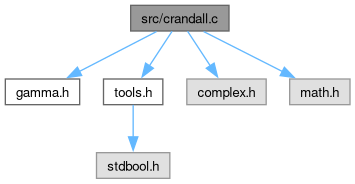
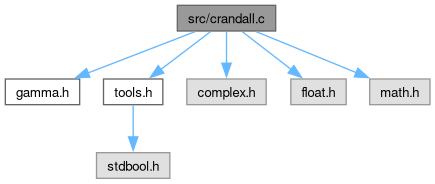
misc: regenerate html

Changed region(s): [[0.0, 0.0, 0.9915, 0.9783], [0.3099, 0.2717, 0.3408, 0.2989], [0.2789, 0.2989, 0.3099, 0.3261]]

diff --git a/C/html/crandall_8h_source.html b/C/html/crandall_8h_source.html
@@ -39,7 +39,7 @@ window.MathJax = {
  <tbody>
  <tr id="projectrow">
   <td id="projectalign">
-   <div id="projectname">Epstein Zeta Library<span id="projectnumber">&#160;0.4.1</span>
+   <div id="projectname">Epstein Zeta Library<span id="projectnumber">&#160;0.5.0a</span>
    </div>
    <div id="projectbrief">Calculates the Epstein Zeta function</div>
   </td>
@@ -122,10 +122,10 @@ $(function() { codefold.init(0); });
 <div class="line"><a id="l00069" name="l00069"></a><span class="lineno">   69</span><span class="keywordtype">double</span> complex <a class="code hl_function" href="crandall_8h.html#a36e2886859961d74dcd67893106d9335">crandall_g</a>(<span class="keywordtype">unsigned</span> <span class="keywordtype">int</span> dim, <span class="keywordtype">double</span> nu, <span class="keyword">const</span> <span class="keywordtype">double</span> *z,</div>
 <div class="line"><a id="l00070" name="l00070"></a><span class="lineno">   70</span>                          <span class="keywordtype">double</span> prefactor, <span class="keywordtype">double</span> zArgBound);</div>
 <div class="line"><a id="l00071" name="l00071"></a><span class="lineno">   71</span><span class="preprocessor">#endif</span></div>
-<div class="ttc" id="acrandall_8h_html_a36e2886859961d74dcd67893106d9335"><div class="ttname"><a href="crandall_8h.html#a36e2886859961d74dcd67893106d9335">crandall_g</a></div><div class="ttdeci">double complex crandall_g(unsigned int dim, double nu, const double *z, double prefactor, double zArgBound)</div><div class="ttdoc">Assumes x and y to be in the respective elementary lattice cell. Multiply with exp(2 * PI * i * x * y...</div><div class="ttdef"><b>Definition</b> crandall.c:127</div></div>
-<div class="ttc" id="acrandall_8h_html_a4f002c9beeec45b933c400a0cf699257"><div class="ttname"><a href="crandall_8h.html#a4f002c9beeec45b933c400a0cf699257">assignzArgBound</a></div><div class="ttdeci">double assignzArgBound(double nu)</div><div class="ttdoc">calculates bounds on when to use asymptotic expansion of the upper incomplete gamma function,...</div><div class="ttdef"><b>Definition</b> crandall.c:97</div></div>
+<div class="ttc" id="acrandall_8h_html_a36e2886859961d74dcd67893106d9335"><div class="ttname"><a href="crandall_8h.html#a36e2886859961d74dcd67893106d9335">crandall_g</a></div><div class="ttdeci">double complex crandall_g(unsigned int dim, double nu, const double *z, double prefactor, double zArgBound)</div><div class="ttdoc">Assumes x and y to be in the respective elementary lattice cell. Multiply with exp(2 * PI * i * x * y...</div><div class="ttdef"><b>Definition</b> crandall.c:134</div></div>
+<div class="ttc" id="acrandall_8h_html_a4f002c9beeec45b933c400a0cf699257"><div class="ttname"><a href="crandall_8h.html#a4f002c9beeec45b933c400a0cf699257">assignzArgBound</a></div><div class="ttdeci">double assignzArgBound(double nu)</div><div class="ttdoc">calculates bounds on when to use asymptotic expansion of the upper incomplete gamma function,...</div><div class="ttdef"><b>Definition</b> crandall.c:104</div></div>
 <div class="ttc" id="acrandall_8h_html_aad749ef8f396e44de09256228fd10a32"><div class="ttname"><a href="crandall_8h.html#aad749ef8f396e44de09256228fd10a32">crandall_gReg_nuequalsdim</a></div><div class="ttdeci">double complex crandall_gReg_nuequalsdim(double s, double arg, double k, double lambda)</div><div class="ttdoc">Calculates the regularization of the zero summand in the second sum in Crandall's formula in the spec...</div></div>
-<div class="ttc" id="acrandall_8h_html_adec3c594701f4a37297ed99a5a016202"><div class="ttname"><a href="crandall_8h.html#adec3c594701f4a37297ed99a5a016202">crandall_gReg</a></div><div class="ttdeci">double complex crandall_gReg(unsigned int dim, double nu, const double *z, double prefactor)</div><div class="ttdoc">Calculates the regularization of the zero summand in the second sum in Crandall's formula.</div><div class="ttdef"><b>Definition</b> crandall.c:79</div></div>
+<div class="ttc" id="acrandall_8h_html_adec3c594701f4a37297ed99a5a016202"><div class="ttname"><a href="crandall_8h.html#adec3c594701f4a37297ed99a5a016202">crandall_gReg</a></div><div class="ttdeci">double complex crandall_gReg(unsigned int dim, double nu, const double *z, double prefactor)</div><div class="ttdoc">Calculates the regularization of the zero summand in the second sum in Crandall's formula.</div><div class="ttdef"><b>Definition</b> crandall.c:86</div></div>
 </div><!-- fragment --></div><!-- contents -->
 <!-- start footer part -->
 <hr class="footer"/><address class="footer"><small>

diff --git a/C/html/search/all_4.js b/C/html/search/all_4.js
@@ -11,14 +11,15 @@ var searchData=
   ['egf_5fua_5fr_8',['egf_ua_r',['../gamma_8c.html#a47c752ef0ca1abca0c9bcd2522a95171',1,'gamma.c']]],
   ['egf_5fugamma_9',['egf_ugamma',['../gamma_8c.html#ac519d4e144fc3904c8ef9b8291415f5c',1,'egf_ugamma(double a, double x):&#160;gamma.c'],['../gamma_8h.html#ac519d4e144fc3904c8ef9b8291415f5c',1,'egf_ugamma(double a, double x):&#160;gamma.c']]],
   ['eps_10',['EPS',['../crandall_8c.html#a6ebf6899d6c1c8b7b9d09be872c05aae',1,'EPS:&#160;crandall.c'],['../tools_8c.html#a6ebf6899d6c1c8b7b9d09be872c05aae',1,'EPS:&#160;tools.c'],['../zeta_8c.html#a6ebf6899d6c1c8b7b9d09be872c05aae',1,'EPS:&#160;zeta.c']]],
-  ['epstein_5fzeta_11',['epstein_zeta',['../namespace__epsteinlib.html#ad18bdfa80dfc37705faf54fedabca85e',1,'_epsteinlib']]],
-  ['epstein_5fzeta_5fc_5fcall_12',['epstein_zeta_c_call',['../namespace__epsteinlib.html#a5917c7018eab0058f9c59b6d3396b8a0',1,'_epsteinlib']]],
-  ['epstein_5fzeta_5freg_13',['epstein_zeta_reg',['../namespace__epsteinlib.html#aef30f576d6940e8621abd59578203232',1,'_epsteinlib']]],
-  ['epstein_5fzeta_5freg_5fc_5fcall_14',['epstein_zeta_reg_c_call',['../namespace__epsteinlib.html#a8498bd42fa7bb3e2f6a310ae3730cee5',1,'_epsteinlib']]],
-  ['epsteinzeta_15',['epsteinZeta',['../epsteinZeta_8c.html#aff1fe7852bf36a72e0da86f19912e870',1,'epsteinZeta.c']]],
-  ['epsteinzeta_2ec_16',['epsteinZeta.c',['../epsteinZeta_8c.html',1,'']]],
-  ['epsteinzetainternal_17',['epsteinZetaInternal',['../zeta_8c.html#aaaea750a87f3948e4c3cd05fa8845482',1,'epsteinZetaInternal(double nu, unsigned int dim, const double *m, const double *x, const double *y, double lambda, int reg):&#160;zeta.c'],['../zeta_8h.html#af1801340afc5abb262bc7e389b1a6c88',1,'epsteinZetaInternal(double nu, unsigned int dim, const double *m, const double *x, const double *y, double lambda, int regBool):&#160;zeta.c']]],
-  ['epsteinzetareg_18',['epsteinZetaReg',['../epsteinZeta_8c.html#aefe3a4ced16ddbd4a7b1727df9e999b2',1,'epsteinZeta.c']]],
-  ['equals_19',['equals',['../tools_8c.html#a90f043e9d6274d24cdc93ea39e4729d4',1,'equals(unsigned int dim, const double *v1, const double *v2):&#160;tools.c'],['../tools_8h.html#a90f043e9d6274d24cdc93ea39e4729d4',1,'equals(unsigned int dim, const double *v1, const double *v2):&#160;tools.c']]],
-  ['equalszero_20',['equalsZero',['../tools_8c.html#a36ca73e4d16386b0f7ab52e9cc8cc657',1,'equalsZero(unsigned int dim, const double *v):&#160;tools.c'],['../tools_8h.html#a36ca73e4d16386b0f7ab52e9cc8cc657',1,'equalsZero(unsigned int dim, const double *v):&#160;tools.c']]]
+  ['eps_5fzero_11',['EPS_ZERO',['../crandall_8c.html#a76d5a0a7b8952eb745b9d0e0db5a373b',1,'crandall.c']]],
+  ['epstein_5fzeta_12',['epstein_zeta',['../namespace__epsteinlib.html#ad18bdfa80dfc37705faf54fedabca85e',1,'_epsteinlib']]],
+  ['epstein_5fzeta_5fc_5fcall_13',['epstein_zeta_c_call',['../namespace__epsteinlib.html#a5917c7018eab0058f9c59b6d3396b8a0',1,'_epsteinlib']]],
+  ['epstein_5fzeta_5freg_14',['epstein_zeta_reg',['../namespace__epsteinlib.html#aef30f576d6940e8621abd59578203232',1,'_epsteinlib']]],
+  ['epstein_5fzeta_5freg_5fc_5fcall_15',['epstein_zeta_reg_c_call',['../namespace__epsteinlib.html#a8498bd42fa7bb3e2f6a310ae3730cee5',1,'_epsteinlib']]],
+  ['epsteinzeta_16',['epsteinZeta',['../epsteinZeta_8c.html#aff1fe7852bf36a72e0da86f19912e870',1,'epsteinZeta.c']]],
+  ['epsteinzeta_2ec_17',['epsteinZeta.c',['../epsteinZeta_8c.html',1,'']]],
+  ['epsteinzetainternal_18',['epsteinZetaInternal',['../zeta_8c.html#aaaea750a87f3948e4c3cd05fa8845482',1,'epsteinZetaInternal(double nu, unsigned int dim, const double *m, const double *x, const double *y, double lambda, int reg):&#160;zeta.c'],['../zeta_8h.html#af1801340afc5abb262bc7e389b1a6c88',1,'epsteinZetaInternal(double nu, unsigned int dim, const double *m, const double *x, const double *y, double lambda, int regBool):&#160;zeta.c']]],
+  ['epsteinzetareg_19',['epsteinZetaReg',['../epsteinZeta_8c.html#aefe3a4ced16ddbd4a7b1727df9e999b2',1,'epsteinZeta.c']]],
+  ['equals_20',['equals',['../tools_8c.html#a90f043e9d6274d24cdc93ea39e4729d4',1,'equals(unsigned int dim, const double *v1, const double *v2):&#160;tools.c'],['../tools_8h.html#a90f043e9d6274d24cdc93ea39e4729d4',1,'equals(unsigned int dim, const double *v1, const double *v2):&#160;tools.c']]],
+  ['equalszero_21',['equalsZero',['../tools_8c.html#a36ca73e4d16386b0f7ab52e9cc8cc657',1,'equalsZero(unsigned int dim, const double *v):&#160;tools.c'],['../tools_8h.html#a36ca73e4d16386b0f7ab52e9cc8cc657',1,'equalsZero(unsigned int dim, const double *v):&#160;tools.c']]]
 ];

diff --git a/C/html/crandall_8c.html b/C/html/crandall_8c.html
@@ -39,7 +39,7 @@ window.MathJax = {
  <tbody>
  <tr id="projectrow">
   <td id="projectalign">
-   <div id="projectname">Epstein Zeta Library<span id="projectnumber">&#160;0.4.1</span>
+   <div id="projectname">Epstein Zeta Library<span id="projectnumber">&#160;0.5.0a</span>
    </div>
    <div id="projectbrief">Calculates the Epstein Zeta function</div>
   </td>
@@ -104,21 +104,24 @@ $(function() {
 <div class="textblock"><code>#include &quot;<a class="el" href="gamma_8h_source.html">gamma.h</a>&quot;</code><br />
 <code>#include &quot;<a class="el" href="tools_8h_source.html">tools.h</a>&quot;</code><br />
 <code>#include &lt;complex.h&gt;</code><br />
+<code>#include &lt;float.h&gt;</code><br />
 <code>#include &lt;math.h&gt;</code><br />
 </div><div class="textblock"><div class="dynheader">
 Include dependency graph for crandall.c:</div>
 <div class="dyncontent">
 <div class="center"><img src="crandall_8c__incl.png" border="0" usemap="#asrc_2crandall_8c" alt=""/></div>
 <map name="asrc_2crandall_8c" id="asrc_2crandall_8c">
-<area shape="rect" title="Calculates the summand function G and related functions in Crandall&#39;s formula." alt="" coords="131,5,229,31"/>
+<area shape="rect" title="Calculates the summand function G and related functions in Crandall&#39;s formula." alt="" coords="177,5,276,31"/>
 <area shape="rect" href="gamma_8h.html" title="Gamma functions." alt="" coords="5,79,80,105"/>
-<area shape="poly" title=" " alt="" coords="158,34,81,74,78,69,155,29"/>
+<area shape="poly" title=" " alt="" coords="196,34,89,75,87,71,194,29"/>
 <area shape="rect" href="tools_8h.html" title="Minimal linear algebra for matrix vector operations." alt="" coords="104,79,163,105"/>
-<area shape="poly" title=" " alt="" coords="174,33,152,67,147,64,170,30"/>
+<area shape="poly" title=" " alt="" coords="212,34,162,72,159,67,209,29"/>
 <area shape="rect" title=" " alt="" coords="187,79,266,105"/>
-<area shape="poly" title=" " alt="" coords="190,30,213,64,208,67,185,33"/>
-<area shape="rect" title=" " alt="" coords="290,79,350,105"/>
-<area shape="poly" title=" " alt="" coords="205,29,284,69,281,74,202,34"/>
+<area shape="poly" title=" " alt="" coords="229,31,229,63,224,63,224,31"/>
+<area shape="rect" title=" " alt="" coords="291,79,346,105"/>
+<area shape="poly" title=" " alt="" coords="244,29,293,67,290,72,240,34"/>
+<area shape="rect" title=" " alt="" coords="370,79,430,105"/>
+<area shape="poly" title=" " alt="" coords="257,29,357,70,355,75,255,34"/>
 <area shape="rect" title=" " alt="" coords="97,153,170,178"/>
 <area shape="poly" title=" " alt="" coords="136,105,136,137,131,137,131,105"/>
 </map>
@@ -130,6 +133,10 @@ Macros</h2></td></tr>
 #define&#160;</td><td class="memItemRight" valign="bottom"><b>EPS</b>&#160;&#160;&#160;ldexp(1, -30)</td></tr>
 <tr class="memdesc:a6ebf6899d6c1c8b7b9d09be872c05aae"><td class="mdescLeft">&#160;</td><td class="mdescRight">epsilon for the cutoff around nu = dimension. <br /></td></tr>
 <tr class="separator:a6ebf6899d6c1c8b7b9d09be872c05aae"><td class="memSeparator" colspan="2">&#160;</td></tr>
+<tr class="memitem:a76d5a0a7b8952eb745b9d0e0db5a373b" id="r_a76d5a0a7b8952eb745b9d0e0db5a373b"><td class="memItemLeft" align="right" valign="top"><a id="a76d5a0a7b8952eb745b9d0e0db5a373b" name="a76d5a0a7b8952eb745b9d0e0db5a373b"></a>
+#define&#160;</td><td class="memItemRight" valign="bottom"><b>EPS_ZERO</b>&#160;&#160;&#160;M_PI *pow(10, -64)</td></tr>
+<tr class="memdesc:a76d5a0a7b8952eb745b9d0e0db5a373b"><td class="mdescLeft">&#160;</td><td class="mdescRight">epsilon for the cutoff around x = 0 and y = 0 <br /></td></tr>
+<tr class="separator:a76d5a0a7b8952eb745b9d0e0db5a373b"><td class="memSeparator" colspan="2">&#160;</td></tr>
 </table><table class="memberdecls">
 <tr class="heading"><td colspan="2"><h2 class="groupheader"><a id="func-members" name="func-members"></a>
 Functions</h2></td></tr>

diff --git a/C/html/globals.html b/C/html/globals.html
@@ -39,7 +39,7 @@ window.MathJax = {
  <tbody>
  <tr id="projectrow">
   <td id="projectalign">
-   <div id="projectname">Epstein Zeta Library<span id="projectnumber">&#160;0.4.1</span>
+   <div id="projectname">Epstein Zeta Library<span id="projectnumber">&#160;0.5.0a</span>
    </div>
    <div id="projectbrief">Calculates the Epstein Zeta function</div>
   </td>
@@ -119,8 +119,9 @@ $(function() {
 <li>egf_rek()&#160;:&#160;<a class="el" href="gamma_8c.html#a8fddf937731aa93c435816c8fc1ee9db">gamma.c</a></li>
 <li>egf_ua()&#160;:&#160;<a class="el" href="gamma_8c.html#a83916b407f1fe146265896ee335f887e">gamma.c</a></li>
 <li>egf_ua_r()&#160;:&#160;<a class="el" href="gamma_8c.html#a47c752ef0ca1abca0c9bcd2522a95171">gamma.c</a></li>
-<li>egf_ugamma()&#160;:&#160;<a class="el" href="gamma_8h.html#ac519d4e144fc3904c8ef9b8291415f5c">gamma.h</a>, <a class="el" href="gamma_8c.html#ac519d4e144fc3904c8ef9b8291415f5c">gamma.c</a></li>
-<li>EPS&#160;:&#160;<a class="el" href="crandall_8c.html#a6ebf6899d6c1c8b7b9d09be872c05aae">crandall.c</a>, <a class="el" href="tools_8c.html#a6ebf6899d6c1c8b7b9d09be872c05aae">tools.c</a>, <a class="el" href="zeta_8c.html#a6ebf6899d6c1c8b7b9d09be872c05aae">zeta.c</a></li>
+<li>egf_ugamma()&#160;:&#160;<a class="el" href="gamma_8c.html#ac519d4e144fc3904c8ef9b8291415f5c">gamma.c</a>, <a class="el" href="gamma_8h.html#ac519d4e144fc3904c8ef9b8291415f5c">gamma.h</a></li>
+<li>EPS&#160;:&#160;<a class="el" href="crandall_8c.html#a6ebf6899d6c1c8b7b9d09be872c05aae">crandall.c</a>, <a class="el" href="zeta_8c.html#a6ebf6899d6c1c8b7b9d09be872c05aae">zeta.c</a>, <a class="el" href="tools_8c.html#a6ebf6899d6c1c8b7b9d09be872c05aae">tools.c</a></li>
+<li>EPS_ZERO&#160;:&#160;<a class="el" href="crandall_8c.html#a76d5a0a7b8952eb745b9d0e0db5a373b">crandall.c</a></li>
 <li>epsteinZeta()&#160;:&#160;<a class="el" href="epsteinZeta_8c.html#aff1fe7852bf36a72e0da86f19912e870">epsteinZeta.c</a></li>
 <li>epsteinZetaInternal()&#160;:&#160;<a class="el" href="zeta_8c.html#aaaea750a87f3948e4c3cd05fa8845482">zeta.c</a>, <a class="el" href="zeta_8h.html#af1801340afc5abb262bc7e389b1a6c88">zeta.h</a></li>
 <li>epsteinZetaReg()&#160;:&#160;<a class="el" href="epsteinZeta_8c.html#aefe3a4ced16ddbd4a7b1727df9e999b2">epsteinZeta.c</a></li>

diff --git a/C/html/globals_defs.html b/C/html/globals_defs.html
@@ -39,7 +39,7 @@ window.MathJax = {
  <tbody>
  <tr id="projectrow">
   <td id="projectalign">
-   <div id="projectname">Epstein Zeta Library<span id="projectnumber">&#160;0.4.1</span>
+   <div id="projectname">Epstein Zeta Library<span id="projectnumber">&#160;0.5.0a</span>
    </div>
    <div id="projectbrief">Calculates the Epstein Zeta function</div>
   </td>
@@ -91,6 +91,7 @@ $(function() {
 <div class="textblock">Here is a list of all documented macros with links to the documentation:</div><ul>
 <li>EGF_EPS&#160;:&#160;<a class="el" href="gamma_8c.html#acb30289c3112d772d6d4aa31c00e088d">gamma.c</a></li>
 <li>EPS&#160;:&#160;<a class="el" href="crandall_8c.html#a6ebf6899d6c1c8b7b9d09be872c05aae">crandall.c</a>, <a class="el" href="tools_8c.html#a6ebf6899d6c1c8b7b9d09be872c05aae">tools.c</a>, <a class="el" href="zeta_8c.html#a6ebf6899d6c1c8b7b9d09be872c05aae">zeta.c</a></li>
+<li>EPS_ZERO&#160;:&#160;<a class="el" href="crandall_8c.html#a76d5a0a7b8952eb745b9d0e0db5a373b">crandall.c</a></li>
 <li>G_BOUND&#160;:&#160;<a class="el" href="zeta_8c.html#ae8a0935369fce9a01debea96528bdea6">zeta.c</a></li>
 </ul>
 </div><!-- contents -->

diff --git a/C/html/search/defines_0.js b/C/html/search/defines_0.js
@@ -1,5 +1,6 @@
 var searchData=
 [
   ['egf_5feps_0',['EGF_EPS',['../gamma_8c.html#acb30289c3112d772d6d4aa31c00e088d',1,'gamma.c']]],
-  ['eps_1',['EPS',['../crandall_8c.html#a6ebf6899d6c1c8b7b9d09be872c05aae',1,'EPS:&#160;crandall.c'],['../tools_8c.html#a6ebf6899d6c1c8b7b9d09be872c05aae',1,'EPS:&#160;tools.c'],['../zeta_8c.html#a6ebf6899d6c1c8b7b9d09be872c05aae',1,'EPS:&#160;zeta.c']]]
+  ['eps_1',['EPS',['../crandall_8c.html#a6ebf6899d6c1c8b7b9d09be872c05aae',1,'EPS:&#160;crandall.c'],['../tools_8c.html#a6ebf6899d6c1c8b7b9d09be872c05aae',1,'EPS:&#160;tools.c'],['../zeta_8c.html#a6ebf6899d6c1c8b7b9d09be872c05aae',1,'EPS:&#160;zeta.c']]],
+  ['eps_5fzero_2',['EPS_ZERO',['../crandall_8c.html#a76d5a0a7b8952eb745b9d0e0db5a373b',1,'crandall.c']]]
 ];

diff --git a/C/html/crandall_8h.html b/C/html/crandall_8h.html
@@ -39,7 +39,7 @@ window.MathJax = {
  <tbody>
  <tr id="projectrow">
   <td id="projectalign">
-   <div id="projectname">Epstein Zeta Library<span id="projectnumber">&#160;0.4.1</span>
+   <div id="projectname">Epstein Zeta Library<span id="projectnumber">&#160;0.5.0a</span>
    </div>
    <div id="projectbrief">Calculates the Epstein Zeta function</div>
   </td>

diff --git a/C/html/dir_68267d1309a1af8e8297ef4c3efbcdba.html b/C/html/dir_68267d1309a1af8e8297ef4c3efbcdba.html
@@ -39,7 +39,7 @@ window.MathJax = {
  <tbody>
  <tr id="projectrow">
   <td id="projectalign">
-   <div id="projectname">Epstein Zeta Library<span id="projectnumber">&#160;0.4.1</span>
+   <div id="projectname">Epstein Zeta Library<span id="projectnumber">&#160;0.5.0a</span>
    </div>
    <div id="projectbrief">Calculates the Epstein Zeta function</div>
   </td>

diff --git a/C/html/dir_7837fde3ab9c1fb2fc5be7b717af8d79.html b/C/html/dir_7837fde3ab9c1fb2fc5be7b717af8d79.html
@@ -39,7 +39,7 @@ window.MathJax = {
  <tbody>
  <tr id="projectrow">
   <td id="projectalign">
-   <div id="projectname">Epstein Zeta Library<span id="projectnumber">&#160;0.4.1</span>
+   <div id="projectname">Epstein Zeta Library<span id="projectnumber">&#160;0.5.0a</span>
    </div>
    <div id="projectbrief">Calculates the Epstein Zeta function</div>
   </td>

diff --git a/C/html/epsteinZeta_8c.html b/C/html/epsteinZeta_8c.html
@@ -39,7 +39,7 @@ window.MathJax = {
  <tbody>
  <tr id="projectrow">
   <td id="projectalign">
-   <div id="projectname">Epstein Zeta Library<span id="projectnumber">&#160;0.4.1</span>
+   <div id="projectname">Epstein Zeta Library<span id="projectnumber">&#160;0.5.0a</span>
    </div>
    <div id="projectbrief">Calculates the Epstein Zeta function</div>
   </td>

diff --git a/C/html/files.html b/C/html/files.html
@@ -39,7 +39,7 @@ window.MathJax = {
  <tbody>
  <tr id="projectrow">
   <td id="projectalign">
-   <div id="projectname">Epstein Zeta Library<span id="projectnumber">&#160;0.4.1</span>
+   <div id="projectname">Epstein Zeta Library<span id="projectnumber">&#160;0.5.0a</span>
    </div>
    <div id="projectbrief">Calculates the Epstein Zeta function</div>
   </td>

diff --git a/C/html/gamma_8c.html b/C/html/gamma_8c.html
@@ -39,7 +39,7 @@ window.MathJax = {
  <tbody>
  <tr id="projectrow">
   <td id="projectalign">
-   <div id="projectname">Epstein Zeta Library<span id="projectnumber">&#160;0.4.1</span>
+   <div id="projectname">Epstein Zeta Library<span id="projectnumber">&#160;0.5.0a</span>
    </div>
    <div id="projectbrief">Calculates the Epstein Zeta function</div>
   </td>
